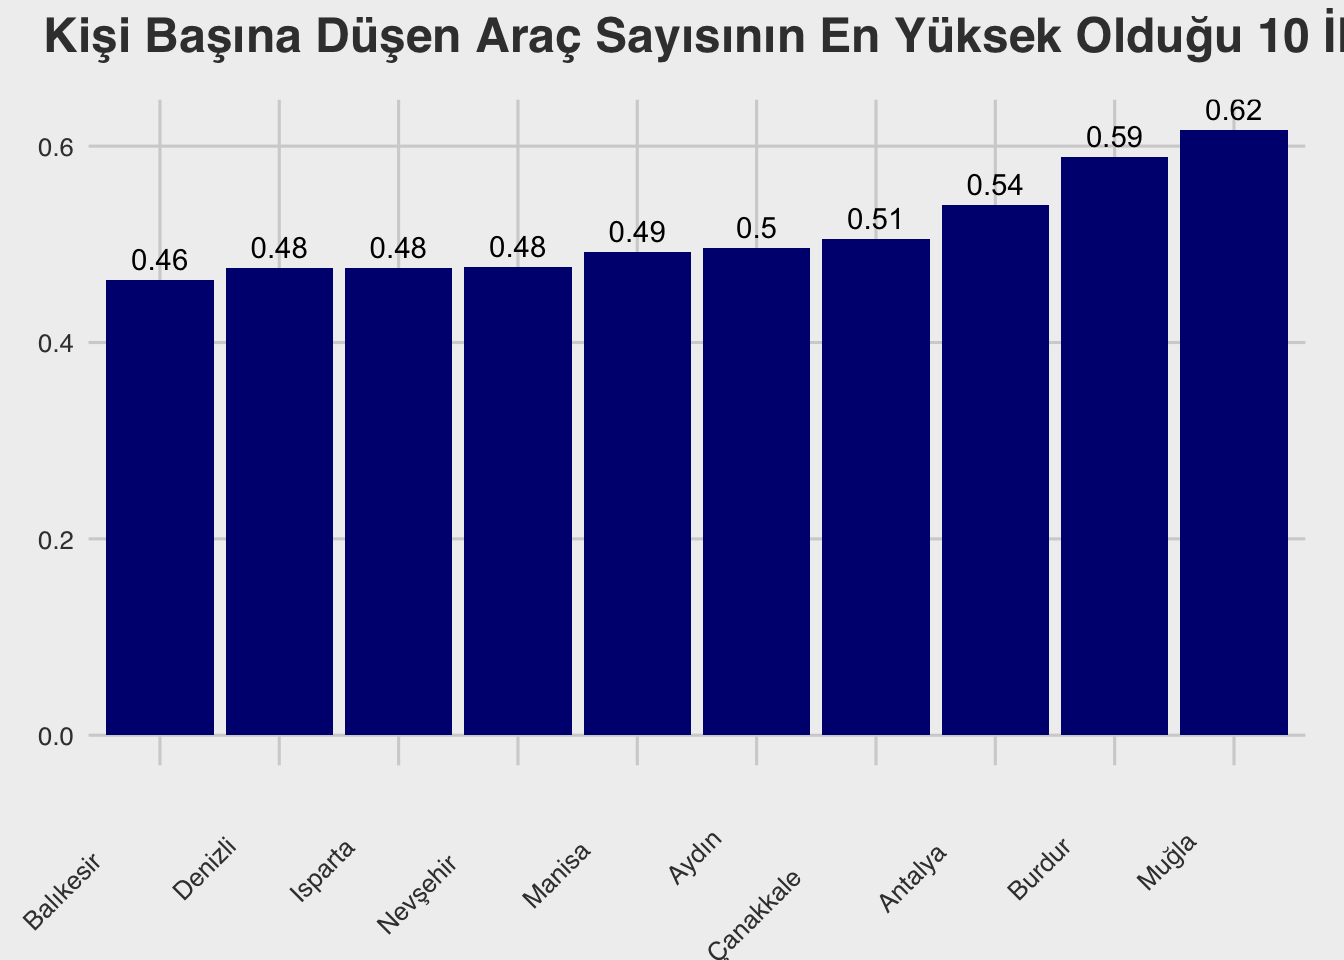
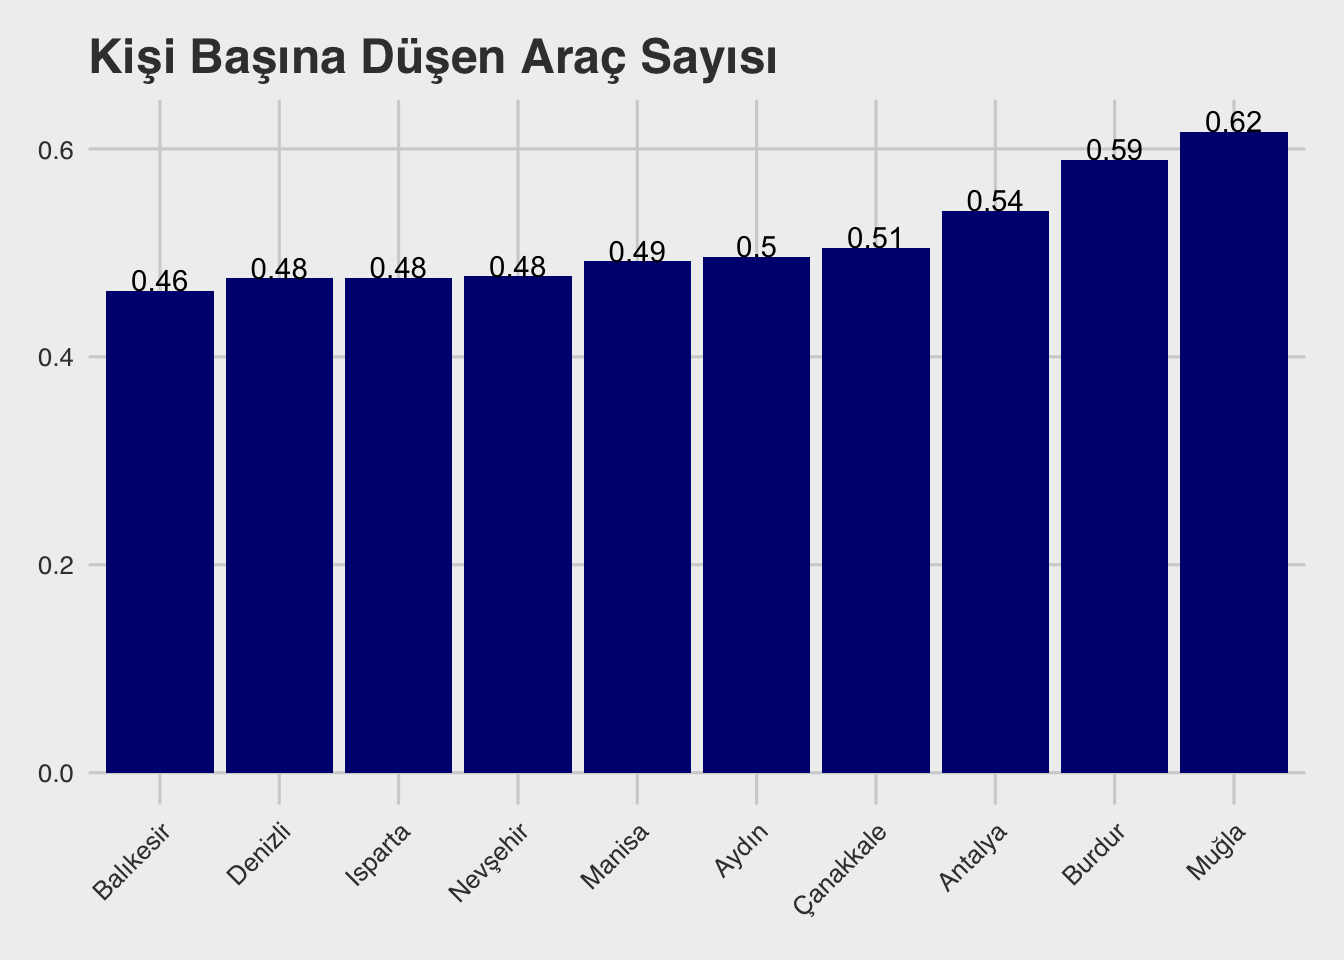
güncelleme

diff --git a/docs/proje.html b/docs/proje.html
@@ -522,13 +522,12 @@ pre > code.sourceCode > span > a:first-child::before { text-decoration: underlin
 <span id="cb11-14"><a href="#cb11-14" aria-hidden="true" tabindex="-1"></a><span class="co"># Kişi başına düşen araç sayısının en yüksek olduğu 10 ilin grafiğini çizdirin</span></span>
 <span id="cb11-15"><a href="#cb11-15" aria-hidden="true" tabindex="-1"></a><span class="fu">ggplot</span>(en_yuksek_kisi_basi_arac, <span class="fu">aes</span>(<span class="at">x =</span> <span class="fu">reorder</span>(İl, Kisi_Basina_Arac_Sayisi), <span class="at">y =</span> Kisi_Basina_Arac_Sayisi)) <span class="sc">+</span></span>
 <span id="cb11-16"><a href="#cb11-16" aria-hidden="true" tabindex="-1"></a>  <span class="fu">geom_bar</span>(<span class="at">stat =</span> <span class="st">"identity"</span>, <span class="at">fill =</span> <span class="st">"navy"</span>) <span class="sc">+</span></span>
-<span id="cb11-17"><a href="#cb11-17" aria-hidden="true" tabindex="-1"></a>  <span class="fu">geom_text</span>(<span class="fu">aes</span>(<span class="at">label =</span> <span class="fu">round</span>(Kisi_Basina_Arac_Sayisi, <span class="dv">2</span>)), <span class="at">vjust =</span> <span class="sc">-</span><span class="fl">0.5</span>, <span class="at">color =</span> <span class="st">"black"</span>) <span class="sc">+</span></span>
-<span id="cb11-18"><a href="#cb11-18" aria-hidden="true" tabindex="-1"></a>  <span class="fu">labs</span>(<span class="at">title =</span> <span class="st">"Kişi Başına Düşen Araç Sayısının En Yüksek Olduğu 10 İl"</span>,</span>
+<span id="cb11-17"><a href="#cb11-17" aria-hidden="true" tabindex="-1"></a>  <span class="fu">geom_text</span>(<span class="fu">aes</span>(<span class="at">label =</span> <span class="fu">round</span>(Kisi_Basina_Arac_Sayisi, <span class="dv">2</span>)), <span class="at">vjust =</span> <span class="dv">0</span>, <span class="at">hjust =</span> <span class="fl">0.5</span>, <span class="at">color =</span> <span class="st">"black"</span>) <span class="sc">+</span></span>
+<span id="cb11-18"><a href="#cb11-18" aria-hidden="true" tabindex="-1"></a>  <span class="fu">labs</span>(<span class="at">title =</span> <span class="st">"Kişi Başına Düşen Araç Sayısı"</span>,</span>
 <span id="cb11-19"><a href="#cb11-19" aria-hidden="true" tabindex="-1"></a>       <span class="at">x =</span> <span class="cn">NULL</span>,</span>
-<span id="cb11-20"><a href="#cb11-20" aria-hidden="true" tabindex="-1"></a>       <span class="at">y =</span> <span class="st">"Kişi Başına Düşen Araç Sayısı"</span>) <span class="sc">+</span></span>
+<span id="cb11-20"><a href="#cb11-20" aria-hidden="true" tabindex="-1"></a>       <span class="at">y =</span> <span class="st">"Kişi Başına Düşen Araç Sayısı"</span>, <span class="at">hjust=</span><span class="dv">1</span>) <span class="sc">+</span></span>
 <span id="cb11-21"><a href="#cb11-21" aria-hidden="true" tabindex="-1"></a>  <span class="fu">theme_fivethirtyeight</span>() <span class="sc">+</span></span>
-<span id="cb11-22"><a href="#cb11-22" aria-hidden="true" tabindex="-1"></a>  <span class="fu">theme</span>(<span class="at">axis.text.x =</span> <span class="fu">element_text</span>(<span class="at">angle =</span> <span class="dv">45</span>, <span class="at">hjust =</span> <span class="dv">2</span>),</span>
-<span id="cb11-23"><a href="#cb11-23" aria-hidden="true" tabindex="-1"></a>        <span class="at">plot.title =</span> <span class="fu">element_text</span>(<span class="at">hjust =</span> <span class="fl">0.5</span>, <span class="at">vjust =</span> <span class="dv">3</span>))</span></code><button title="Copy to Clipboard" class="code-copy-button"><i class="bi"></i></button></pre></div>
+<span id="cb11-22"><a href="#cb11-22" aria-hidden="true" tabindex="-1"></a>  <span class="fu">theme</span>(<span class="at">axis.text.x =</span> <span class="fu">element_text</span>(<span class="at">angle =</span> <span class="dv">45</span>, <span class="at">hjust =</span> <span class="dv">1</span>))</span></code><button title="Copy to Clipboard" class="code-copy-button"><i class="bi"></i></button></pre></div>
 <div class="cell-output-display">
 <p><img src="proje_files/figure-html/unnamed-chunk-3-1.png" class="img-fluid" width="672"></p>
 </div>
